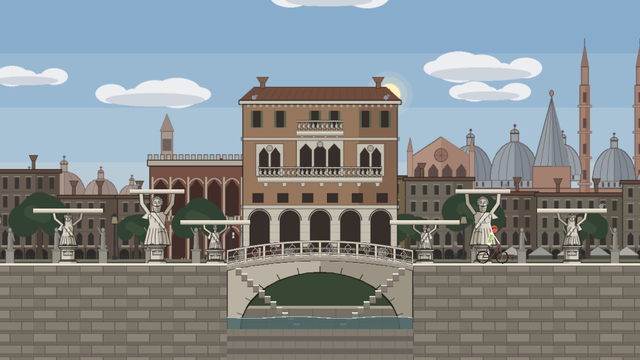
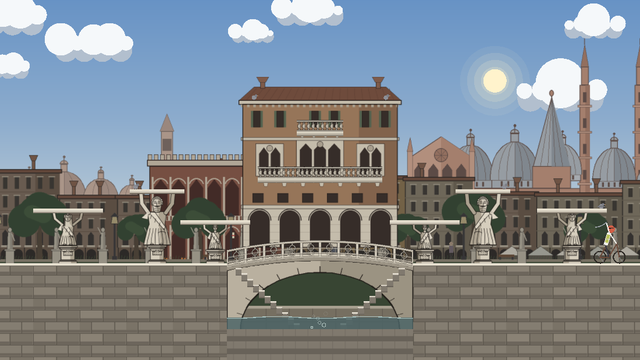
Cielo vivo: alba, giorno, tramonto e notte con sole, luna, nuvole e stormi (#267)
Claude-Session: https://claude.ai/code/session_019JFdUcZDyYf2m3RnDrJTnj

diff --git a/src/shared/stages.ts b/src/shared/stages.ts
@@ -124,6 +124,7 @@ export interface StageLife {
     startAt?: number;
     lamps?: { x: number; y: number; parallax: number }[];
     windows?: { x: number; y: number; width: number; height: number }[]; // finestre che si accendono di notte, una alla volta
+    sky?: boolean; // cielo vivo (#267): gradiente, sole, luna, stelle e nuvole calcolati, dietro a uno strato del cielo trasparente
   };
 }
 
@@ -461,8 +462,9 @@ export const STAGES: Record<string, StageSpec> = {
         walkers: { y: 510, parallax: 0.75, count: 9, umbrellas: true },
         vehicles: { y: 540, parallax: 0.45, everyMs: 23000, kind: "tram" },
         daycycle: {
-          cycleMs: 240000, // un giorno intero in 4 minuti: si parte nel pomeriggio, a metà partita è sera
-          startAt: 0.1,
+          cycleMs: 240000, // un giorno intero in 4 minuti: alba, giorno, tramonto e notte
+          startAt: 0.8, // si parte poco dopo l'alba
+          sky: true, // il cielo vivo dietro alle sagome di Santa Giustina e del Santo (#267)
           lamps: [90, 390, 690, 990, 1290, 1590, 1890, 2190].map((x) => ({ x: x - 260, y: 409, parallax: 0.75 })), // i lampioni del prato
           // Le finestre del palazzo che si accendono la sera: la trifora, le bifore, l'ultimo piano, il mezzanino
           windows: [

diff --git a/tools/arene/padova.py b/tools/arene/padova.py
@@ -507,16 +507,7 @@ def cloud(d, x, y, w, col, shade):
 
 
 def sky(d, W, H):
-    # cielo di giorno, a fasce piatte: azzurro spento in alto, più chiaro e caldo verso l'orizzonte (la notte la fa il velo)
-    bands = [(122, 160, 196), (136, 172, 204), (152, 184, 210), (168, 194, 214), (184, 202, 214), (198, 206, 210)]
-    d.rectangle([0, 0, W, H], fill=bands[0] + (255,))
-    for i, c in enumerate(bands):
-        y = to_px(0, -300 + i * 140)[1]
-        d.rectangle([0, y, W, H], fill=c + (255,))
-    rng = random.Random(5)
-    for _ in range(9):  # nuvole bianche con la pancia in ombra
-        x, y = rng.uniform(0, W), to_px(0, rng.uniform(-260, 120))[1]
-        cloud(d, x, y, rng.uniform(160, 320), (236, 238, 240, 255), (206, 212, 220, 255))
+    # Il cielo lo disegna il gioco (cielo vivo, #267): qui solo le sagome lontane, su fondo trasparente
     base = to_px(0, 470)[1]
     santa_giustina(d, to_px(300, 0)[0], base + 10)
     basilica_santo(d, to_px(1500, 0)[0], base, 0.95)

diff --git a/docs/arene.md b/docs/arene.md
@@ -256,7 +256,7 @@ Facoltativo, solo grafica: elementi animati che fanno sembrare il posto abitato.
 | `walkers: { y, parallax, count, umbrellas? }` | `count` passanti sulla linea `y`; con `umbrellas` aprono l'ombrello quando piove (acqua alta) |
 | `vehicles: { y, parallax, everyMs, kind }` | un tram o un bus (`kind`) che passa in 12 s, ogni `everyMs` (più di 12000) |
 | `outerWater: { y, highY?, flood? }` | acqua intorno all'arena, da `y` in giù, disegnata davanti a chi cade, con lo splash. Con `flood` (indice di una trappola con l'acqua alta) sale fino a `highY` insieme a lei. Le rive possono scendere fino all'acqua: l'arena non sembra sospesa nel vuoto |
-| `daycycle: { cycleMs, startAt?, lamps? }` | giorno e notte: un giro intero in `cycleMs` dall'inizio della partita, partendo da `startAt` (0 mezzogiorno, 0,25 tramonto, 0,5 mezzanotte, 0,75 alba). Di notte si vedono le stelle; i lampioni `{ x, y, parallax }` si accendono al tramonto e si spengono all'alba, le finestre `windows: [{ x, y, width, height }]` si accendono una alla volta. Il velo della notte copre lo sfondo e le decorazioni, non il palco |
+| `daycycle: { cycleMs, startAt?, lamps? }` | giorno e notte: un giro intero in `cycleMs` dall'inizio della partita, partendo da `startAt` (0 mezzogiorno, 0,25 tramonto, 0,5 mezzanotte, 0,75 alba). Di notte si vedono le stelle; i lampioni `{ x, y, parallax }` si accendono al tramonto e si spengono all'alba, le finestre `windows: [{ x, y, width, height }]` si accendono una alla volta. Con `sky: true` il cielo è vivo (#267): gradiente con i colori del momento (alba rosa, giorno azzurro, tramonto arancio e viola, notte blu), sole e luna che tramontano dietro gli strati, stelle e nuvole che scorrono; lo strato più lontano allora va disegnato con il cielo trasparente, solo le sagome. La luce del momento moltiplica strati, decorazioni, acqua e sfondo vivo, il palco solo un po' |
 
 Colori spenti, lontani da quelli dei giocatori (style guide, sezione 7).
 
